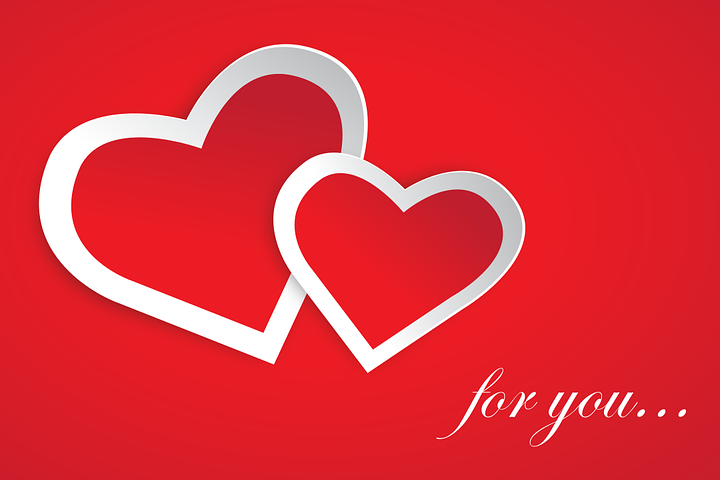
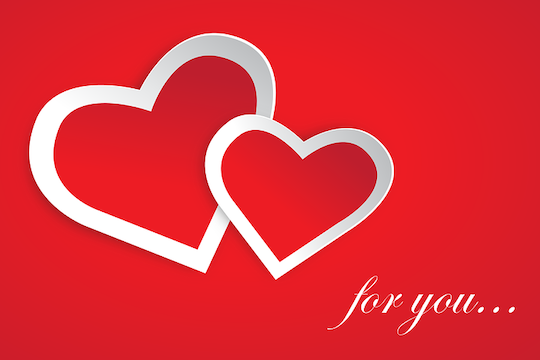
Reduce image size

diff --git a/story.md b/story.md
@@ -3,7 +3,7 @@ A Great Life Story
 
 > For the brave and curious. For the impatient, skip to last section.
 
-<img src="images/love-by-manish-dhawan.png" align="right" width="400px">
+<img src="images/love-by-manish-dhawan.png" align="right" width="250px">
 
 Hello, adventurer! :smile:
 
